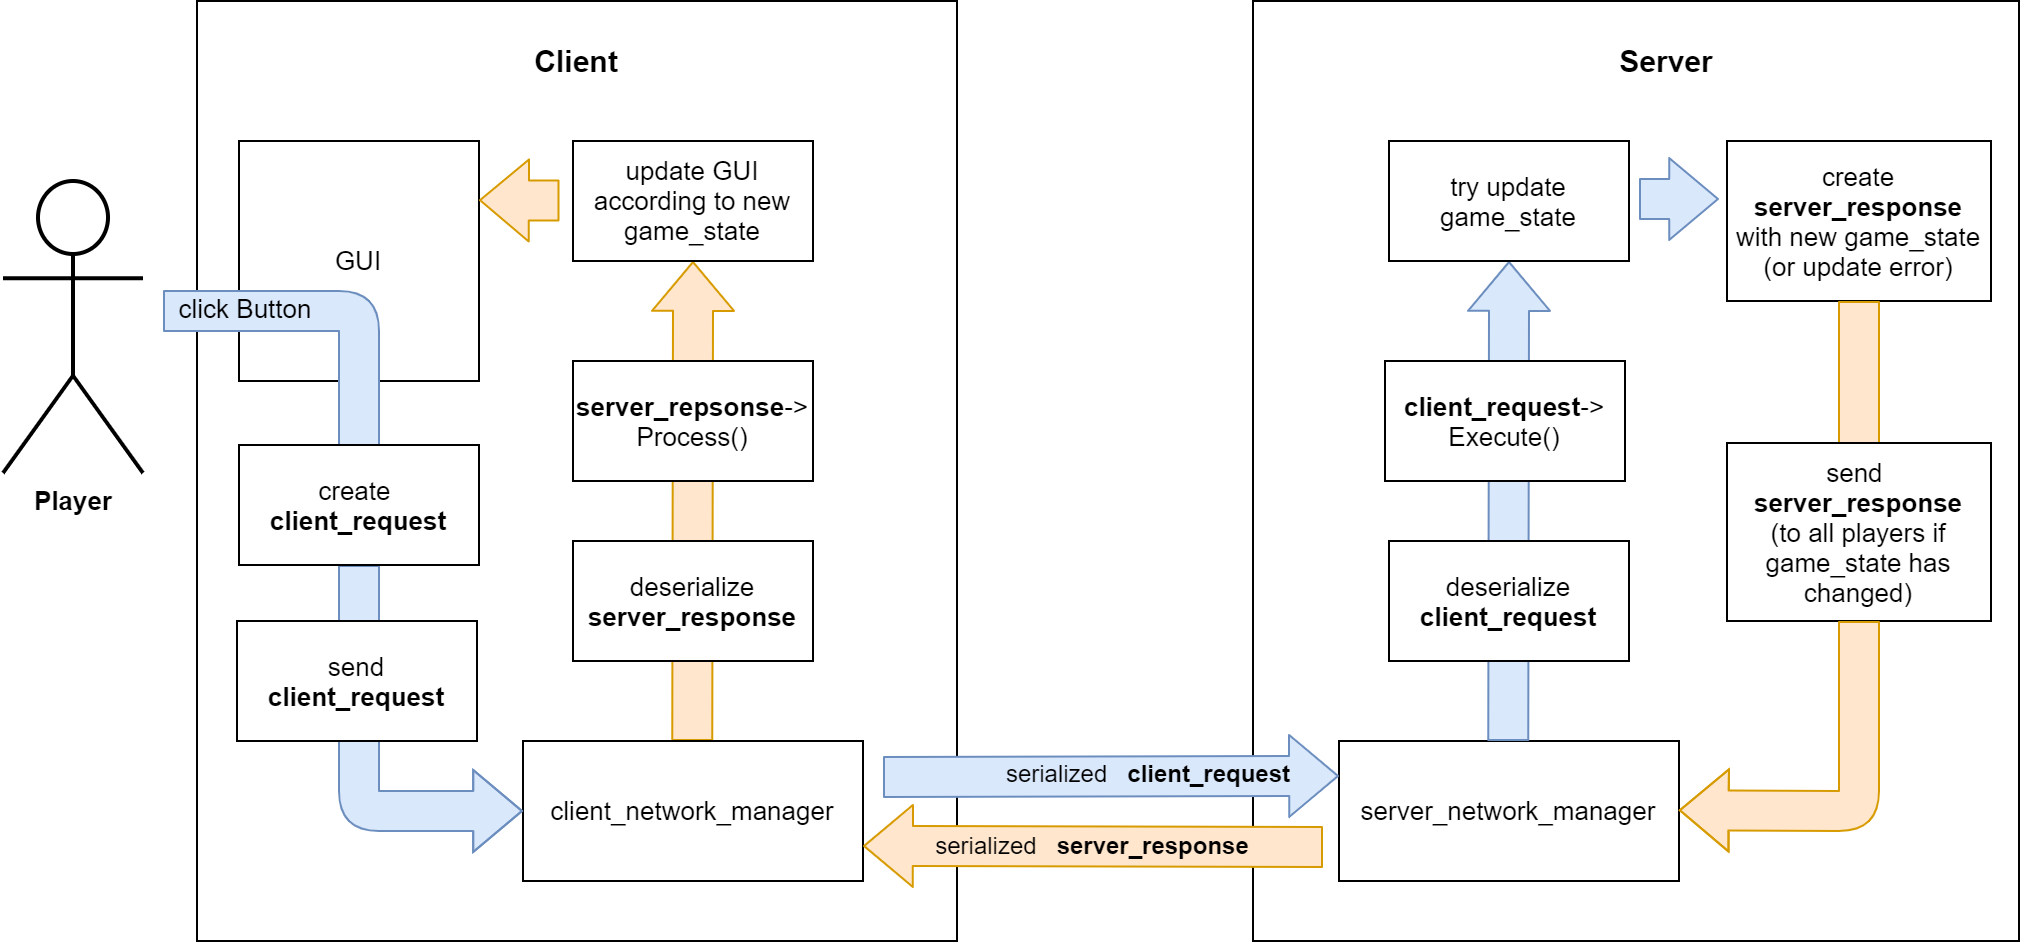
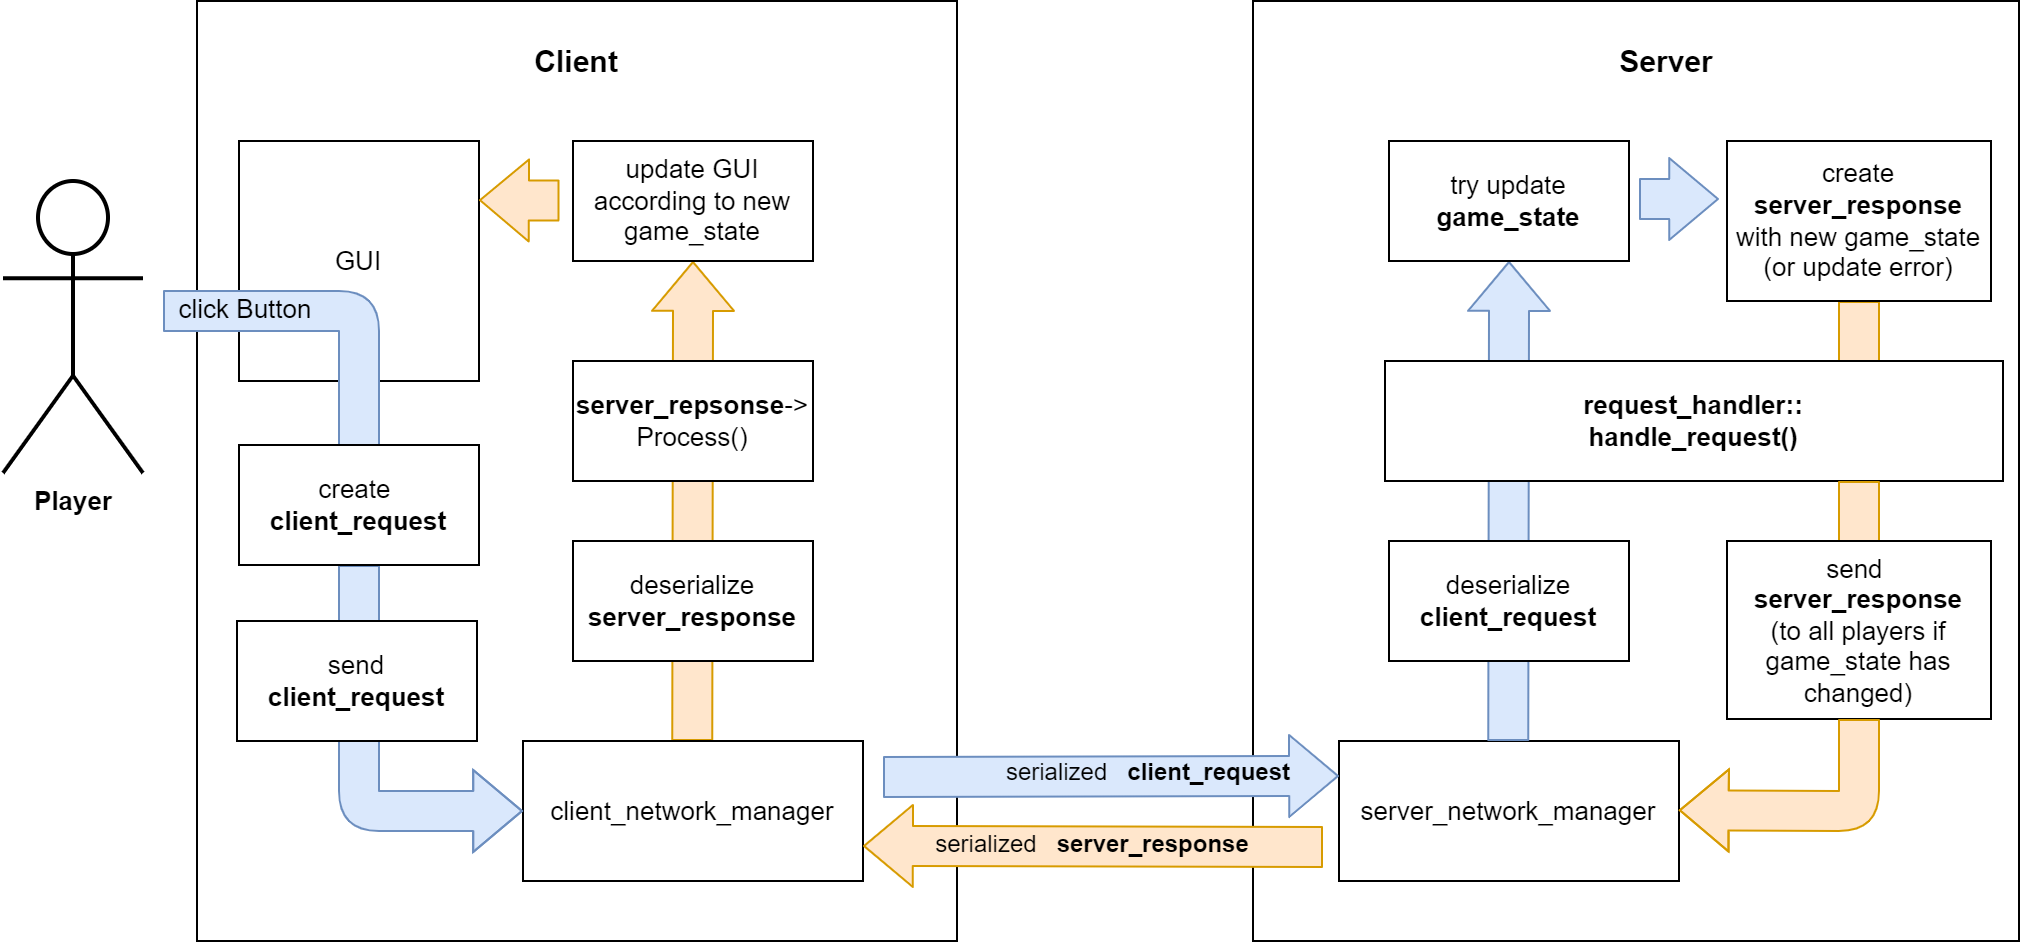
Removed execute from client_request and updated README

diff --git a/src/common/network/requests/join_game_request.cpp b/src/common/network/requests/join_game_request.cpp
@@ -45,40 +45,3 @@ join_game_request* join_game_request::from_json(const rapidjson::Value& json) {
     }
 }
 
-#ifdef LAMA_SERVER
-
-request_response* join_game_request::execute() {
-    player* player;
-    player_manager::add_or_get_player(_player_name, _player_id, player);
-
-    std::string err;
-    game_instance* game_instance_ptr = nullptr;
-    if (_game_id.empty()) {
-        // join any game
-        if (game_instance_manager::try_add_player_to_any_game(player, game_instance_ptr, err)) {
-            // game_instance_ptr got updated to the joined game
-
-            // return response with full game_state attached
-            return new request_response(game_instance_ptr->get_id(), _req_id, true,
-                                        game_instance_ptr->get_game_state()->to_json(), err);
-        } else {
-            return new request_response("", _req_id, false, nullptr, err);
-        }
-    }
-    else {
-        if (game_instance_manager::try_get_game_instance(_game_id, game_instance_ptr)) {
-            if (game_instance_manager::try_add_player(player, game_instance_ptr, err)) {
-                // return response with full game_state attached
-                return new request_response(_game_id, _req_id, true, game_instance_ptr->get_game_state()->to_json(), err);
-            } else {
-                return new request_response("", _req_id, false, nullptr, err);
-            }
-        } else {
-            return new request_response("", _req_id, false, nullptr, "Requested game could not be found.");
-        }
-    }
-}
-
-#endif
-
-

diff --git a/src/common/network/requests/play_card_request.cpp b/src/common/network/requests/play_card_request.cpp
@@ -4,11 +4,6 @@
 
 #include "play_card_request.h"
 
-#ifdef LAMA_SERVER
-#include "../../../server/game_instance_manager.h"
-#include "../../../server/game_instance.h"
-#endif
-
 // Public constructor
 play_card_request::play_card_request(std::string game_id, std::string player_id, std::string card_id)
         : client_request(client_request::create_base_class_properties(RequestType::play_card, uuid_generator::generate_uuid_v4(), player_id, game_id) ),
@@ -36,19 +31,3 @@ void play_card_request::write_into_json(rapidjson::Value &json,
     rapidjson::Value card_id_val(_card_id.c_str(), allocator);
     json.AddMember("card_id", card_id_val,allocator);
 }
-
-#ifdef LAMA_SERVER
-request_response* play_card_request::execute() {
-    std::string err;
-    player* player;
-    game_instance* game_instance_ptr;
-    if (game_instance_manager::try_get_player_and_game_instance(_player_id, player, game_instance_ptr, err)) {
-        card* drawn_card;
-        if (game_instance_ptr->play_card(player, _card_id, err)) {
-            return new request_response(game_instance_ptr->get_id(), _req_id, true, game_instance_ptr->get_game_state()->to_json(), err);
-        }
-    }
-    return new request_response("", _req_id, false, nullptr, err);
-}
-#endif
-

diff --git a/src/common/network/requests/fold_request.cpp b/src/common/network/requests/fold_request.cpp
@@ -4,11 +4,6 @@
 
 #include "fold_request.h"
 
-#ifdef LAMA_SERVER
-#include "../../../server/game_instance_manager.h"
-#include "../../../server/game_instance.h"
-#endif
-
 // Public constructor
 fold_request::fold_request(std::string game_id, std::string player_id)
         : client_request( client_request::create_base_class_properties(RequestType::fold, uuid_generator::generate_uuid_v4(), player_id, game_id) )
@@ -27,17 +22,3 @@ void fold_request::write_into_json(rapidjson::Value &json,
                                    rapidjson::MemoryPoolAllocator<rapidjson::CrtAllocator> &allocator) const {
     client_request::write_into_json(json, allocator);
 }
-
-#ifdef LAMA_SERVER
-request_response* fold_request::execute() {
-    std::string err;
-    player* player;
-    game_instance* game_instance_ptr;
-    if (game_instance_manager::try_get_player_and_game_instance(_player_id, player, game_instance_ptr, err)) {
-        if (game_instance_ptr->fold(player, err)) {
-            return new request_response(game_instance_ptr->get_id(), _req_id, true, game_instance_ptr->get_game_state()->to_json(), err);
-        }
-    }
-    return new request_response("", _req_id, false, nullptr, err);
-}
-#endif

diff --git a/src/common/network/requests/start_game_request.cpp b/src/common/network/requests/start_game_request.cpp
@@ -27,17 +27,3 @@ void start_game_request::write_into_json(rapidjson::Value &json,
                                          rapidjson::MemoryPoolAllocator<rapidjson::CrtAllocator> &allocator) const {
     client_request::write_into_json(json, allocator);
 }
-
-#ifdef LAMA_SERVER
-request_response* start_game_request::execute() {
-    std::string err;
-    player* player;
-    game_instance* game_instance_ptr;
-    if (game_instance_manager::try_get_player_and_game_instance(_player_id, player, game_instance_ptr, err)) {
-        if (game_instance_ptr->start_game(player, err)) {
-            return new request_response(game_instance_ptr->get_id(), _req_id, true, game_instance_ptr->get_game_state()->to_json(), err);
-        }
-    }
-    return new request_response("", _req_id, false, nullptr, err);
-}
-#endif

diff --git a/src/common/network/requests/draw_card_request.cpp b/src/common/network/requests/draw_card_request.cpp
@@ -36,18 +36,3 @@ void draw_card_request::write_into_json(rapidjson::Value &json,
     client_request::write_into_json(json, allocator);
     json.AddMember("nof_cards", rapidjson::Value(this->_nof_cards),allocator);
 }
-
-#ifdef LAMA_SERVER
-request_response* draw_card_request::execute() {
-    std::string err;
-    player* player;
-    game_instance* game_instance_ptr;
-    if (game_instance_manager::try_get_player_and_game_instance(_player_id, player, game_instance_ptr, err)) {
-        card* drawn_card;
-        if (game_instance_ptr->draw_card(player, drawn_card, err)) {
-            return new request_response(game_instance_ptr->get_id(), _req_id, true, game_instance_ptr->get_game_state()->to_json(), err);
-        }
-    }
-    return new request_response("", _req_id, false, nullptr, err);
-}
-#endif

diff --git a/src/common/network/requests/client_request.h b/src/common/network/requests/client_request.h
@@ -15,11 +15,6 @@
 #include "../../serialization/uuid_generator.h"
 #include "../../serialization/json_utils.h"
 
-#ifdef LAMA_SERVER
-#include "../responses/server_response.h"
-#include "../responses/request_response.h"
-#endif
-
 // Identifier for the different request types.
 // The RequestType is sent with every client_request to identify the type of client_request
 // during deserialization on the server side.
@@ -73,12 +68,6 @@ public:
     void write_into_json(rapidjson::Value& json, rapidjson::Document::AllocatorType& allocator) const override;
 
     [[nodiscard]] virtual std::string to_string() const;
-
-    // Code that should only exist on the server side
-#ifdef LAMA_SERVER
-    // Execute this request on the server side
-    virtual request_response* execute() = 0;
-#endif
 };
 
 

diff --git a/src/common/network/requests/start_game_request.h b/src/common/network/requests/start_game_request.h
@@ -23,12 +23,6 @@ public:
     start_game_request(std::string game_id, std::string player_id);
     virtual void write_into_json(rapidjson::Value& json, rapidjson::Document::AllocatorType& allocator) const override;
     static start_game_request* from_json(const rapidjson::Value& json);
-
-#ifdef LAMA_SERVER
-    request_response* execute() override;
-#endif
 };
-
-
 
 #endif //LAMA_START_GAME_REQUEST_H

diff --git a/src/common/network/requests/play_card_request.h b/src/common/network/requests/play_card_request.h
@@ -25,10 +25,6 @@ public:
     play_card_request(std::string game_id, std::string player_id, std::string card_id);
     virtual void write_into_json(rapidjson::Value& json, rapidjson::Document::AllocatorType& allocator) const override;
     static play_card_request* from_json(const rapidjson::Value& json);
-
-#ifdef LAMA_SERVER
-    request_response* execute() override;
-#endif
 };
 
 

diff --git a/src/common/network/requests/draw_card_request.h b/src/common/network/requests/draw_card_request.h
@@ -26,10 +26,6 @@ public:
     draw_card_request(std::string game_id, std::string player_id, int nof_cards = 1);
     virtual void write_into_json(rapidjson::Value& json, rapidjson::Document::AllocatorType& allocator) const override;
     static draw_card_request* from_json(const rapidjson::Value& json);
-
-#ifdef LAMA_SERVER
-    request_response* execute() override;
-#endif
 };
 
 

diff --git a/src/common/network/requests/fold_request.h b/src/common/network/requests/fold_request.h
@@ -22,10 +22,6 @@ public:
     fold_request(std::string game_id, std::string player_id);
     virtual void write_into_json(rapidjson::Value& json, rapidjson::Document::AllocatorType& allocator) const override;
     static fold_request* from_json(const rapidjson::Value& json);
-
-#ifdef LAMA_SERVER
-    request_response* execute() override;
-#endif
 };
 
 

diff --git a/src/server/server_network_manager.cpp b/src/server/server_network_manager.cpp
@@ -141,7 +141,6 @@ void server_network_manager::handle_incoming_message(const std::string& msg, con
 #endif
         // execute client request
         request_response* res = request_handler::handle_request(req);
-        //request_response* res = req->execute();
         delete req;
 
         // transform response into a json

diff --git a/src/common/network/requests/join_game_request.h b/src/common/network/requests/join_game_request.h
@@ -36,10 +36,6 @@ public:
 
     virtual void write_into_json(rapidjson::Value& json, rapidjson::Document::AllocatorType& allocator) const override;
     static join_game_request* from_json(const rapidjson::Value& json);
-
-#ifdef LAMA_SERVER
-    request_response* execute() override;
-#endif
 };
 
 
